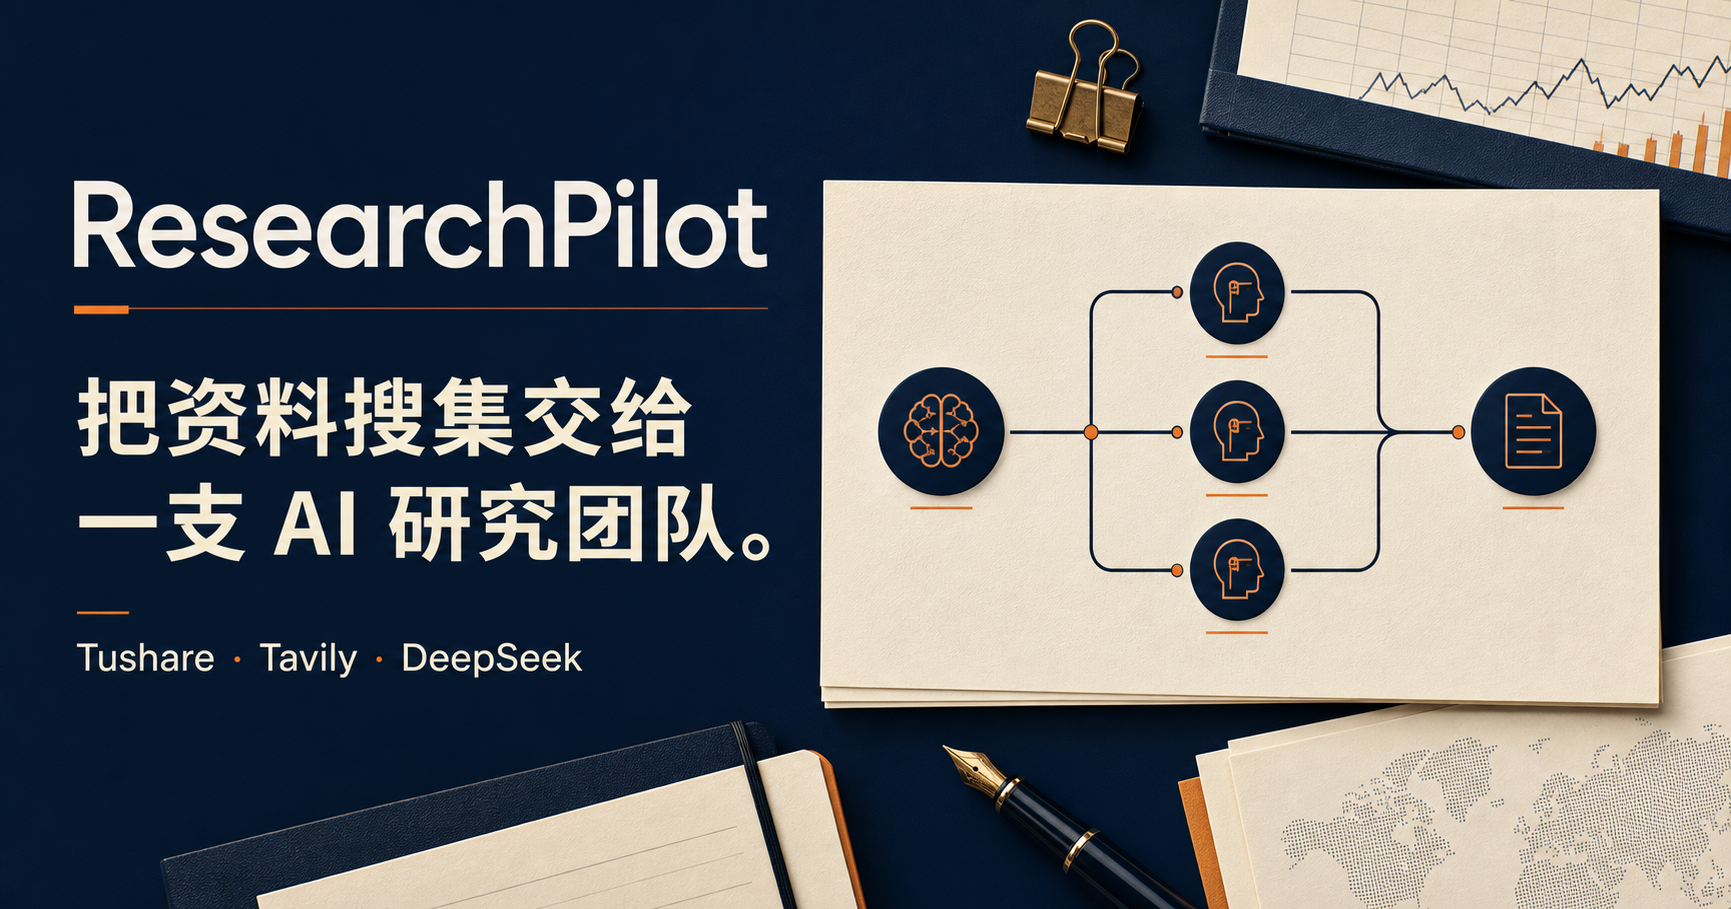
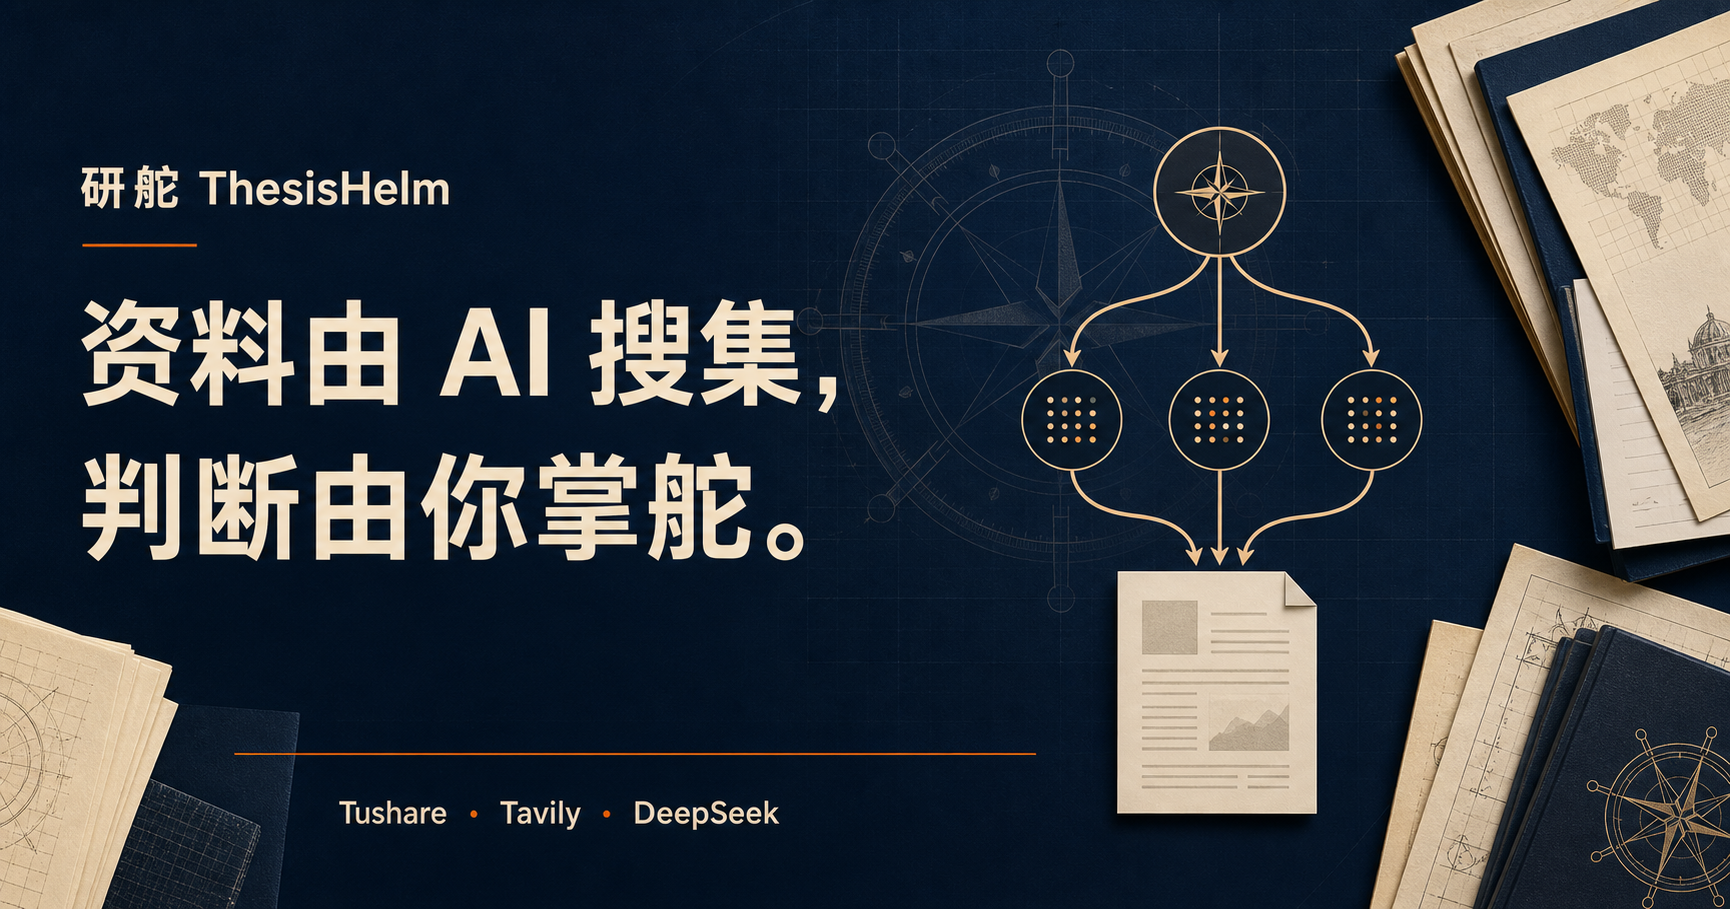
Rename product to 研舵 ThesisHelm
Update the website brand, package metadata, documentation, tests, license attribution, and Open Graph social preview.

diff --git a/app/page.tsx b/app/page.tsx
@@ -216,7 +216,7 @@ export default function Home() {
   return (
     <main className="rp-shell">
       <aside className="rp-sidebar">
-        <a className="rp-brand" href="#top"><span>RP</span><div><b>ResearchPilot</b><small>Multi-agent research desk</small></div></a>
+        <a className="rp-brand" href="#top"><span>舵</span><div><b>研舵 ThesisHelm</b><small>Multi-agent research desk</small></div></a>
         <nav aria-label="主导航">
           <a className="active" href="#research">研究任务</a>
           <a href="#workflow">Agent 架构</a>
@@ -235,7 +235,7 @@ export default function Home() {
 
         <section className="rp-hero" id="research">
           <p className="rp-eyebrow">AUTONOMOUS INVESTMENT RESEARCH</p>
-          <h1>把资料搜集交给<br />一支 AI 研究团队。</h1>
+          <h1>资料由 AI 搜集，<br />判断由你掌舵。</h1>
           <p className="rp-hero-copy">输入一只 A 股和研究问题，主协调 Agent 将并行调度公司概况、行业宏观和综合分析师，最后生成一份有来源、保留分歧的研究简报。</p>
 
           <div className="rp-command-card">
@@ -282,7 +282,7 @@ export default function Home() {
           <section className="rp-sources" id="sources"><div className="rp-section-heading"><div><p className="rp-eyebrow">SOURCE INDEX</p><h2>每条资料都可以回到来源。</h2></div><p>{result.sourceIndex.length} 个来源 · Tushare 结构化数据与 Tavily 公开网页</p></div><div>{result.sourceIndex.map((source) => <article key={source.ref}><span>{source.ref}</span><div>{source.url ? <a href={source.url} target="_blank" rel="noreferrer">{source.title}</a> : <b>{source.title}</b>}<small>{source.detail}</small></div><em>{source.kind === "web" ? "网页" : "数据"}</em></article>)}</div></section>
         </section>}
 
-        <footer className="rp-footer"><b>ResearchPilot</b><p>AI 生成内容仅供研究参考，不构成投资建议。请独立核验重要事实并作出自己的判断。</p></footer>
+        <footer className="rp-footer"><b>研舵 ThesisHelm</b><p>AI 生成内容仅供研究参考，不构成投资建议。请独立核验重要事实并作出自己的判断。</p></footer>
       </section>
 
       {settingsOpen && <div className="rp-modal-backdrop" role="presentation" onMouseDown={(event) => { if (event.target === event.currentTarget) setSettingsOpen(false); }}><section className="rp-settings-modal" role="dialog" aria-modal="true" aria-labelledby="settings-title"><header><div><p className="rp-eyebrow">CONNECTION SETTINGS</p><h2 id="settings-title">模型与数据连接</h2><p>DeepSeek 与 Tavily Key 加密保存，网页无法回读明文。</p></div><button type="button" onClick={() => setSettingsOpen(false)} aria-label="关闭设置">×</button></header><div className="rp-connection-status"><div className={providerSettings?.tushare.configured ? "connected" : ""}><span /><b>Tushare</b><small>{providerSettings?.tushare.configured ? `${providerSettings.tushare.points} 积分` : "未配置"}</small></div><div className={providerSettings?.hasApiKey ? "connected" : ""}><span /><b>DeepSeek</b><small>{providerSettings?.hasApiKey ? "已配置" : "必填"}</small></div><div className={providerSettings?.hasSearchApiKey ? "connected" : ""}><span /><b>Tavily</b><small>{providerSettings?.hasSearchApiKey ? "已配置" : "必填"}</small></div></div><form onSubmit={saveSettings}><label htmlFor="deepseek-key">DeepSeek API Key</label><input id="deepseek-key" type="password" autoComplete="new-password" value={deepseekKey} onChange={(event) => setDeepseekKey(event.target.value)} placeholder={providerSettings?.hasApiKey ? "已配置；留空保留" : "sk-…"} disabled={settingsLoading || settingsSaving} /><label htmlFor="tavily-key">Tavily API Key</label><input id="tavily-key" type="password" autoComplete="new-password" value={tavilyKey} onChange={(event) => setTavilyKey(event.target.value)} placeholder={providerSettings?.hasSearchApiKey ? "已配置；留空保留" : "tvly-…"} disabled={settingsLoading || settingsSaving} /><label htmlFor="deepseek-model">模型 ID</label><input id="deepseek-model" list="deepseek-models" value={deepseekModel} onChange={(event) => setDeepseekModel(event.target.value)} spellCheck={false} disabled={settingsLoading || settingsSaving} /><datalist id="deepseek-models"><option value="deepseek-v4-flash" /><option value="deepseek-v4-pro" /></datalist>{settingsMessage && <p className={settingsMessage.includes("已安全保存") ? "success" : ""} role="status">{settingsMessage}</p>}<div><button type="button" onClick={() => setSettingsOpen(false)}>取消</button><button type="submit" disabled={settingsLoading || settingsSaving}>{settingsSaving ? "保存中…" : "加密保存"}</button></div></form></section></div>}

diff --git a/app/layout.tsx b/app/layout.tsx
@@ -11,14 +11,14 @@ export async function generateMetadata(): Promise<Metadata> {
   const host = requestHeaders.get("x-forwarded-host") ?? requestHeaders.get("host") ?? "localhost:3000";
   const protocol = requestHeaders.get("x-forwarded-proto") ?? (host.startsWith("localhost") ? "http" : "https");
   const origin = `${protocol}://${host}`;
-  const title = "ResearchPilot｜多 Agent 智能投研助手";
-  const description = "主协调 Agent 并行调度公司、行业与综合分析师，从数据和公开资料到研究简报。";
+  const title = "研舵 ThesisHelm｜多 Agent 智能投研助手";
+  const description = "资料由 AI 搜集，判断由你掌舵。主协调 Agent 并行调度专业分析师生成研究简报。";
   const image = `${origin}/og.png`;
 
   return {
     title,
     description,
-    openGraph: { title, description, type: "website", images: [{ url: image, width: 1734, height: 908, alt: "ResearchPilot 社交预览" }] },
+    openGraph: { title, description, type: "website", images: [{ url: image, width: 1730, height: 909, alt: "研舵 ThesisHelm 社交预览" }] },
     twitter: { card: "summary_large_image", title, description, images: [image] },
   };
 }

diff --git a/README.md b/README.md
@@ -1,10 +1,10 @@
-# ResearchPilot
+# 研舵 ThesisHelm
 
-> 把资料搜集交给一支 AI 研究团队。
+> 资料由 AI 搜集，判断由你掌舵。
 
-ResearchPilot 是一个面向 A 股研究的多 Agent 投研助手。用户输入股票代码和研究问题后，主协调 Agent 会准备 Tushare 结构化数据和 Tavily 公开资料，并行调度三个专业分析 Agent，最后由报告总结 Agent 生成研究简报。
+研舵 ThesisHelm 是一个面向 A 股研究的多 Agent 投研助手。用户输入股票代码和研究问题后，主协调 Agent 会准备 Tushare 结构化数据和 Tavily 公开资料，并行调度三个专业分析 Agent，最后由报告总结 Agent 生成研究简报。
 
-本项目参考 [InvestPilot](https://github.com/junglego3/InvestPilot) 的角色分工和“结构化数据 + 联网搜索 + 专业报告”工作流，代码为独立实现，不复制其源码、提示词或品牌。
+本项目参考 [InvestPilot](https://github.com/junglego3/InvestPilot) 的角色分工和“结构化数据 + 联网搜索 + 专业报告”工作流，代码为独立实现，不复制其源码、提示词或品牌。“研舵”强调 AI 负责研究协作，而最终方向由用户掌握。
 
 ## 架构
 

diff --git a/docs/ARCHITECTURE.md b/docs/ARCHITECTURE.md
@@ -1,4 +1,4 @@
-# ResearchPilot 系统架构
+# 研舵 ThesisHelm 系统架构
 
 ## 1. 运行流程
 
